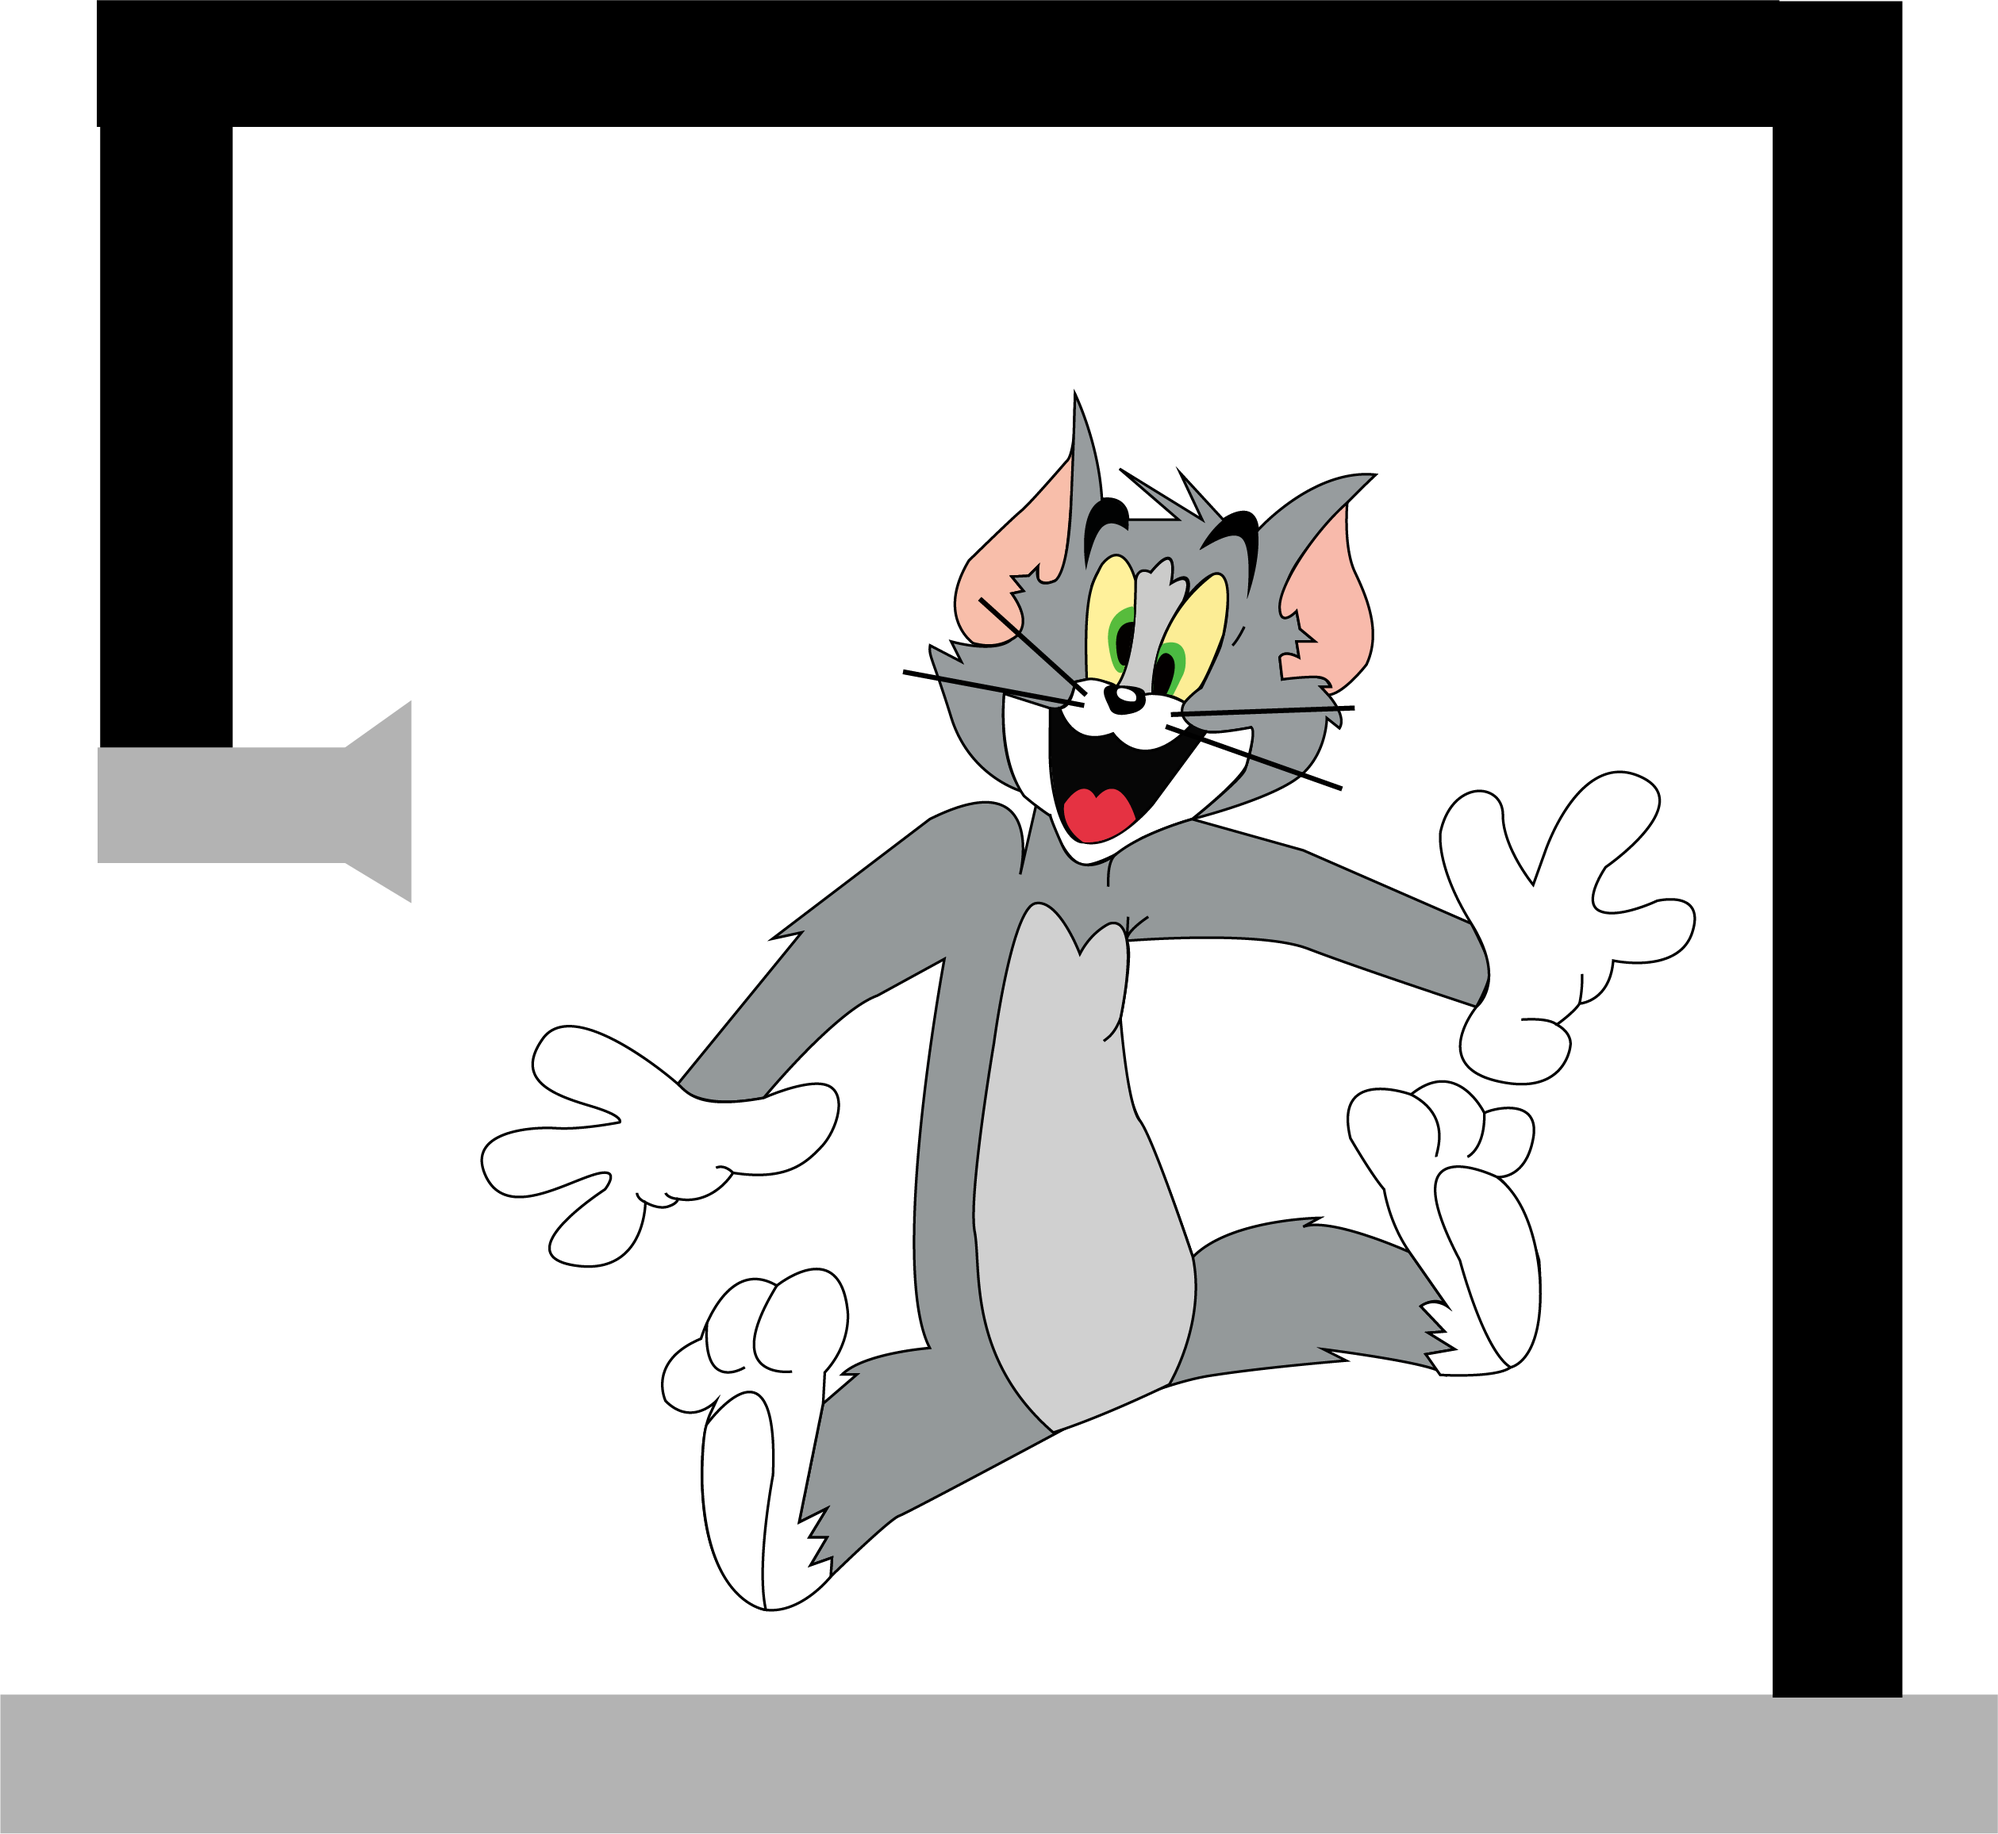
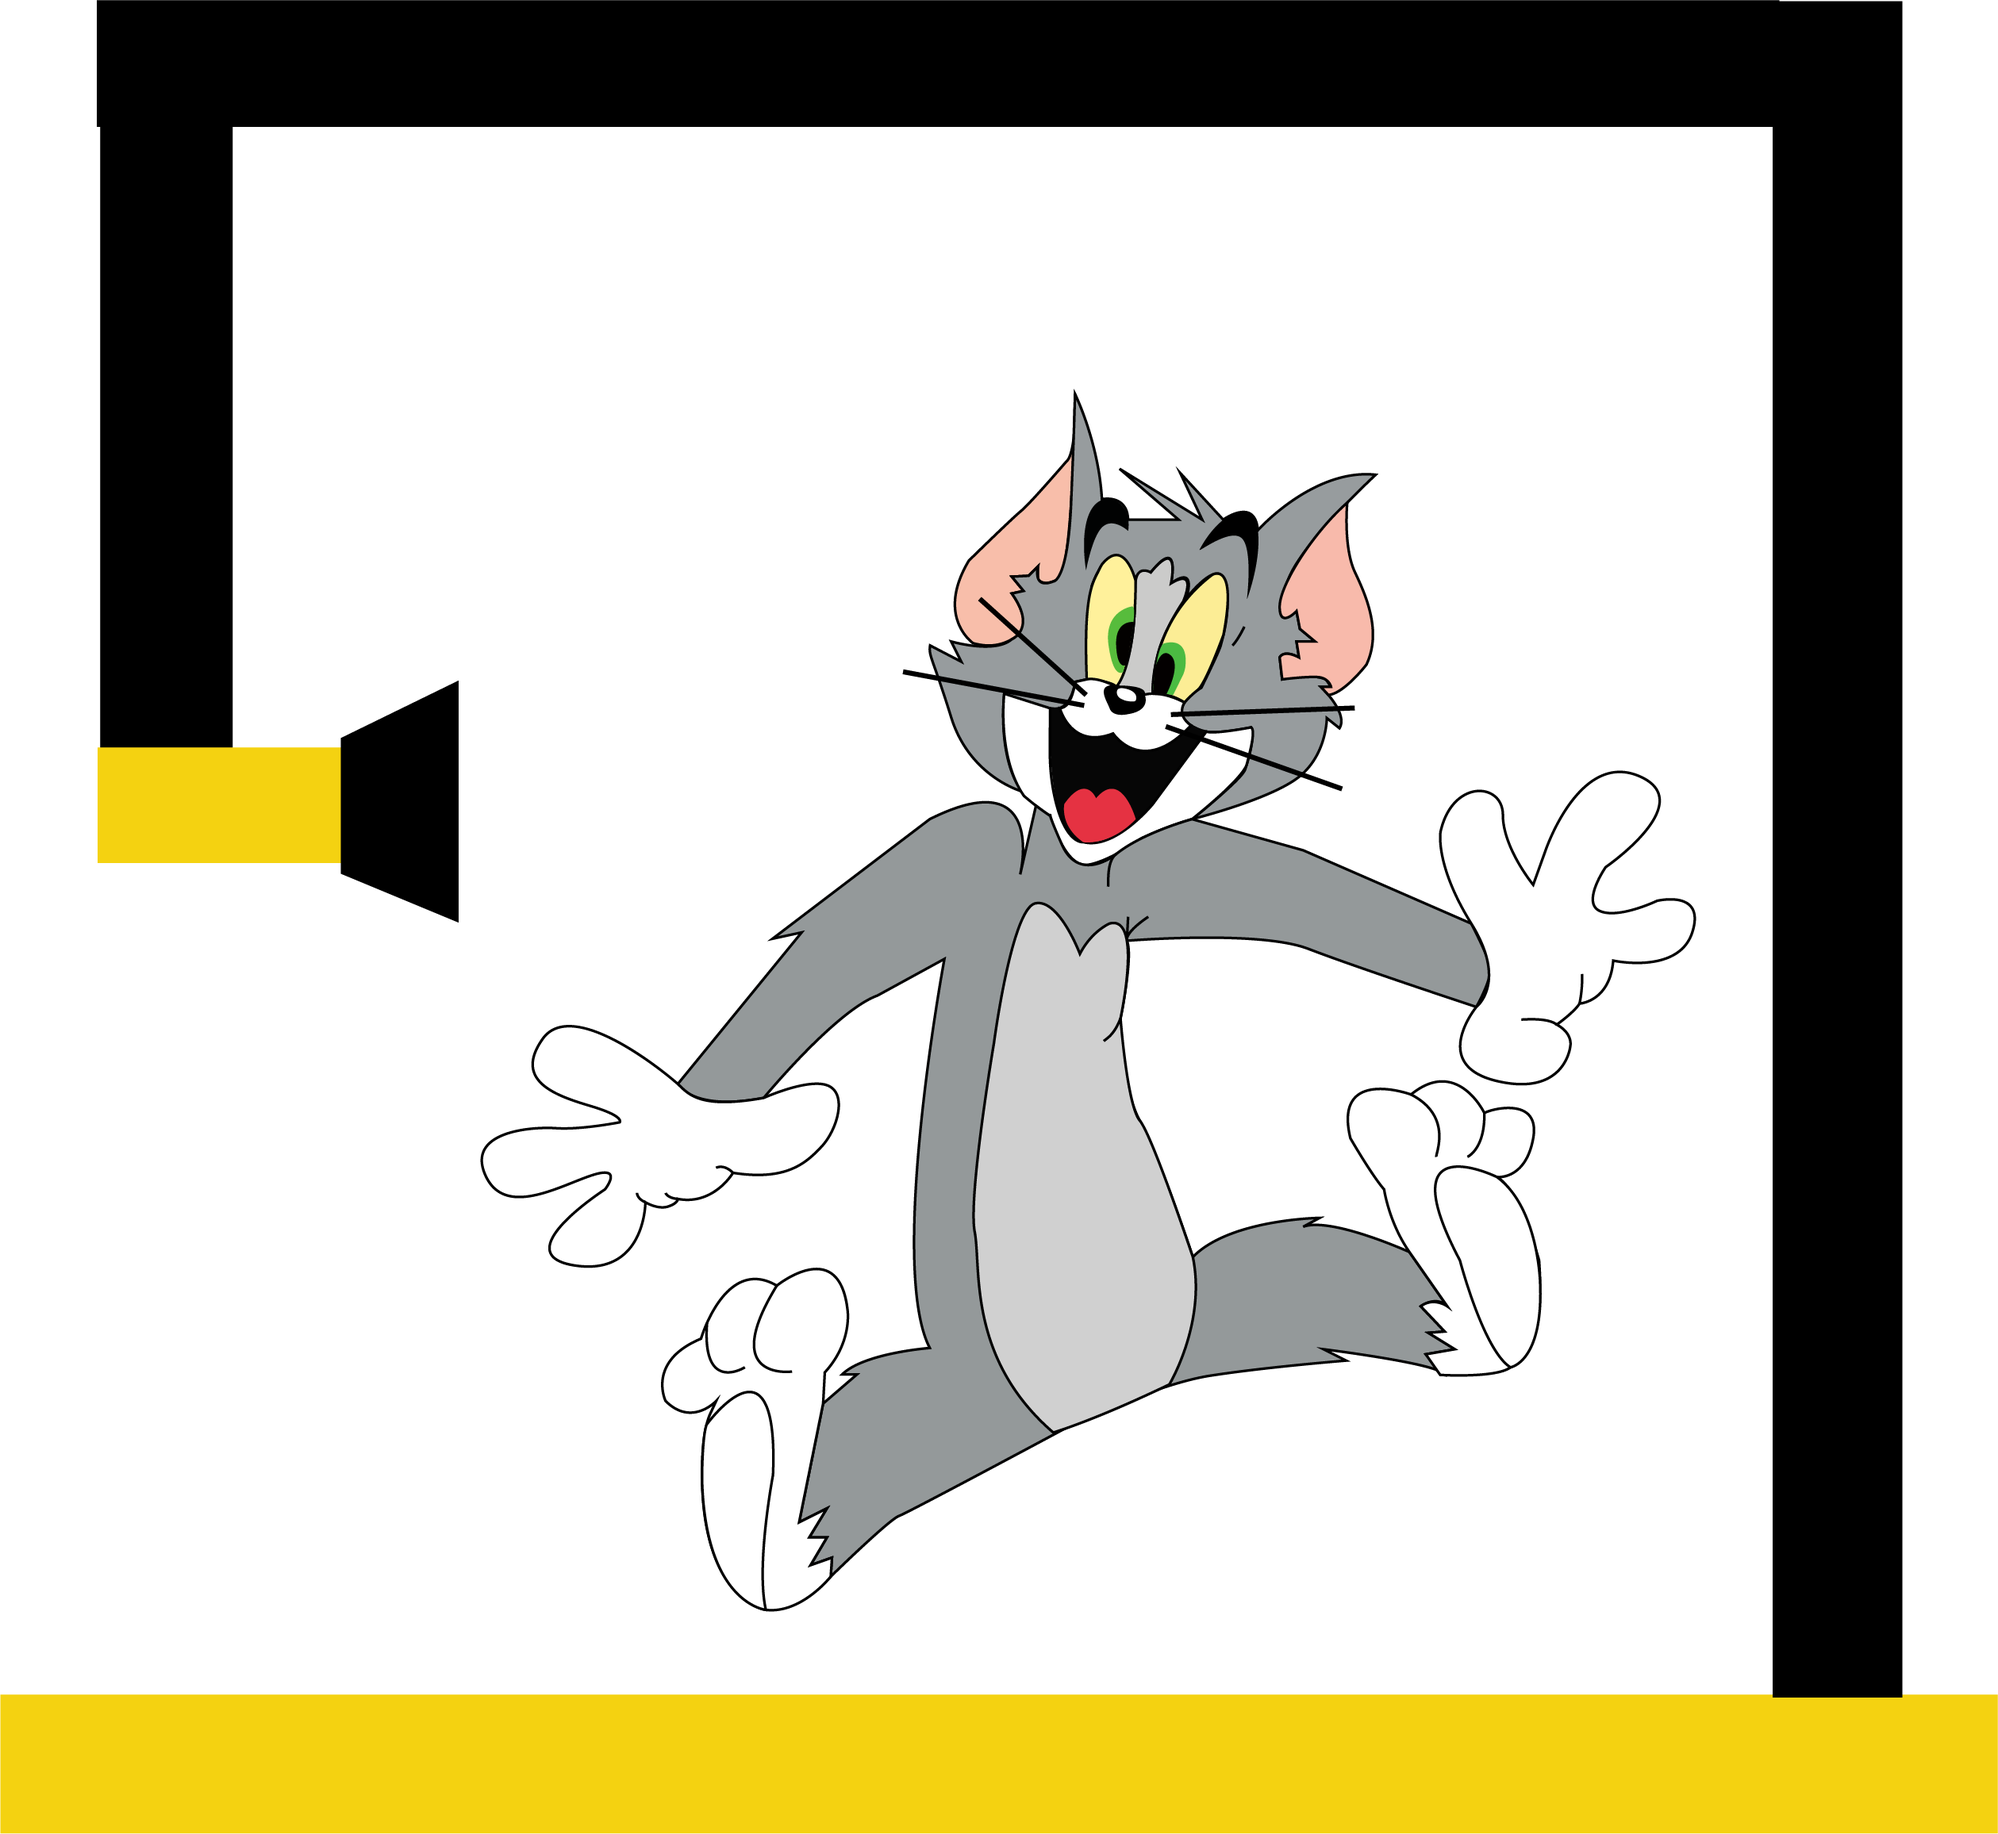
finished with background

Changed region(s): [[0.0, 0.9031, 1.0, 1.0], [0.031, 0.3737, 0.2478, 0.4983]]

diff --git a/index.html b/index.html
@@ -10,26 +10,27 @@
      integrity="sha256-hwg4gsxgFZhOsEEamdOYGBf13FyQuiTwlAQgxVSNgt4="
      crossorigin="anonymous"></script>
     <title>Tom and Jerry Hangman</title>
+    <style>
+        body { 
+        background-color: black;
+        background-image: url('images/jerrycheese.jpg');
+        background-size: 103%;
+        background-repeat: no-repeat;
+        }
+    </style>
 </head>
+
 <body>
+    <h1>Tom and Jerry Hangman</h1>
+    <h2>chances left: <div id="wrongLetter"></p></div></h2><br>
 
-    <h1>Tom and Jerry</h1>
-    <h2>chances left: <div id="wrongLetter"></p></div></h2> 
-    <br>
-    
-
-    <img src ="" id="hang-img" style="height:300px;">
-    <br>
-
-    <div id="hint"></div>
-    <br>
+    <img src ="" id="hang-img" style="height:300px;"> <br>
+    <div id="hint"></div><br>
 
     <div id="guess"></div>
-     <div id="newgame">new game</div>
-    <br>
+    <div id="newgame">new game</div><br>
 
-    <div id="message"></div> 
-    <br>
+    <div id="message"></div><br>
 
     <table id="table">
         <tbody>

diff --git a/css/styles.css b/css/styles.css
@@ -1,6 +1,4 @@
 
-
-
 h1 {
     font-size: 50px;
     text-align: center;
@@ -10,8 +8,8 @@ h1 {
 
 h2 {
     position: absolute;
-    top: 65%;
-    left: 27%;
+    top: 66%;
+    left: 28%;
     text-align: center;
     font-size: 15px;
     font-family: 'Carter One', cursive;
@@ -41,7 +39,7 @@ h2 {
     font-size: 20px;
     position: absolute;
     top: 63%;
-    left: 40.6%;
+    left: 40%;
     text-align: center;
     font-family: 'Carter One', cursive;
 }
@@ -63,9 +61,9 @@ td {
 }
 
 .disable-td {
-    background-color: grey;
+    background-color: darkgrey;
     cursor: default;
-    color: darkgrey;
+    color: #f4d211;
 }
 
 #hang-img {
@@ -76,8 +74,8 @@ td {
 
 #newgame {
     position: absolute;
-    top: 67.6%;
-    left: 66%;
+    top: 69%;
+    left: 63%;
     line-height: 14px;
     width: 75px;
     height: 40px;

diff --git a/js/script.js b/js/script.js
@@ -35,12 +35,10 @@ var $message = $('#message');
 
 $('table').on('click', 'td', handleLetterClick)
 $('#newgame').on('click', initialize)    
-   
 
 /*--------- functions --------*/
 
 initialize();
-
 function handleLetterClick(evt) {
     console.log(secretWord);
     var letter = evt.target.innerHTML;
@@ -79,7 +77,7 @@ function initialize() {
     if(secretWord === 'BENZ' || secretWord === 'JAGUAR' || secretWord === 'TESLA') {
         $hint.html('this word is a luxury car');
     } else if (secretWord === 'CHIPOTLE' || secretWord === 'WENDYS') {
-        $hint.html('this word is a fast food');
+        $hint.html('this word is a fast food place');
     } else if (secretWord === 'LASSENS' || secretWord === 'RALPHS') {
         $hint.html('this word is a market');
     } else {
